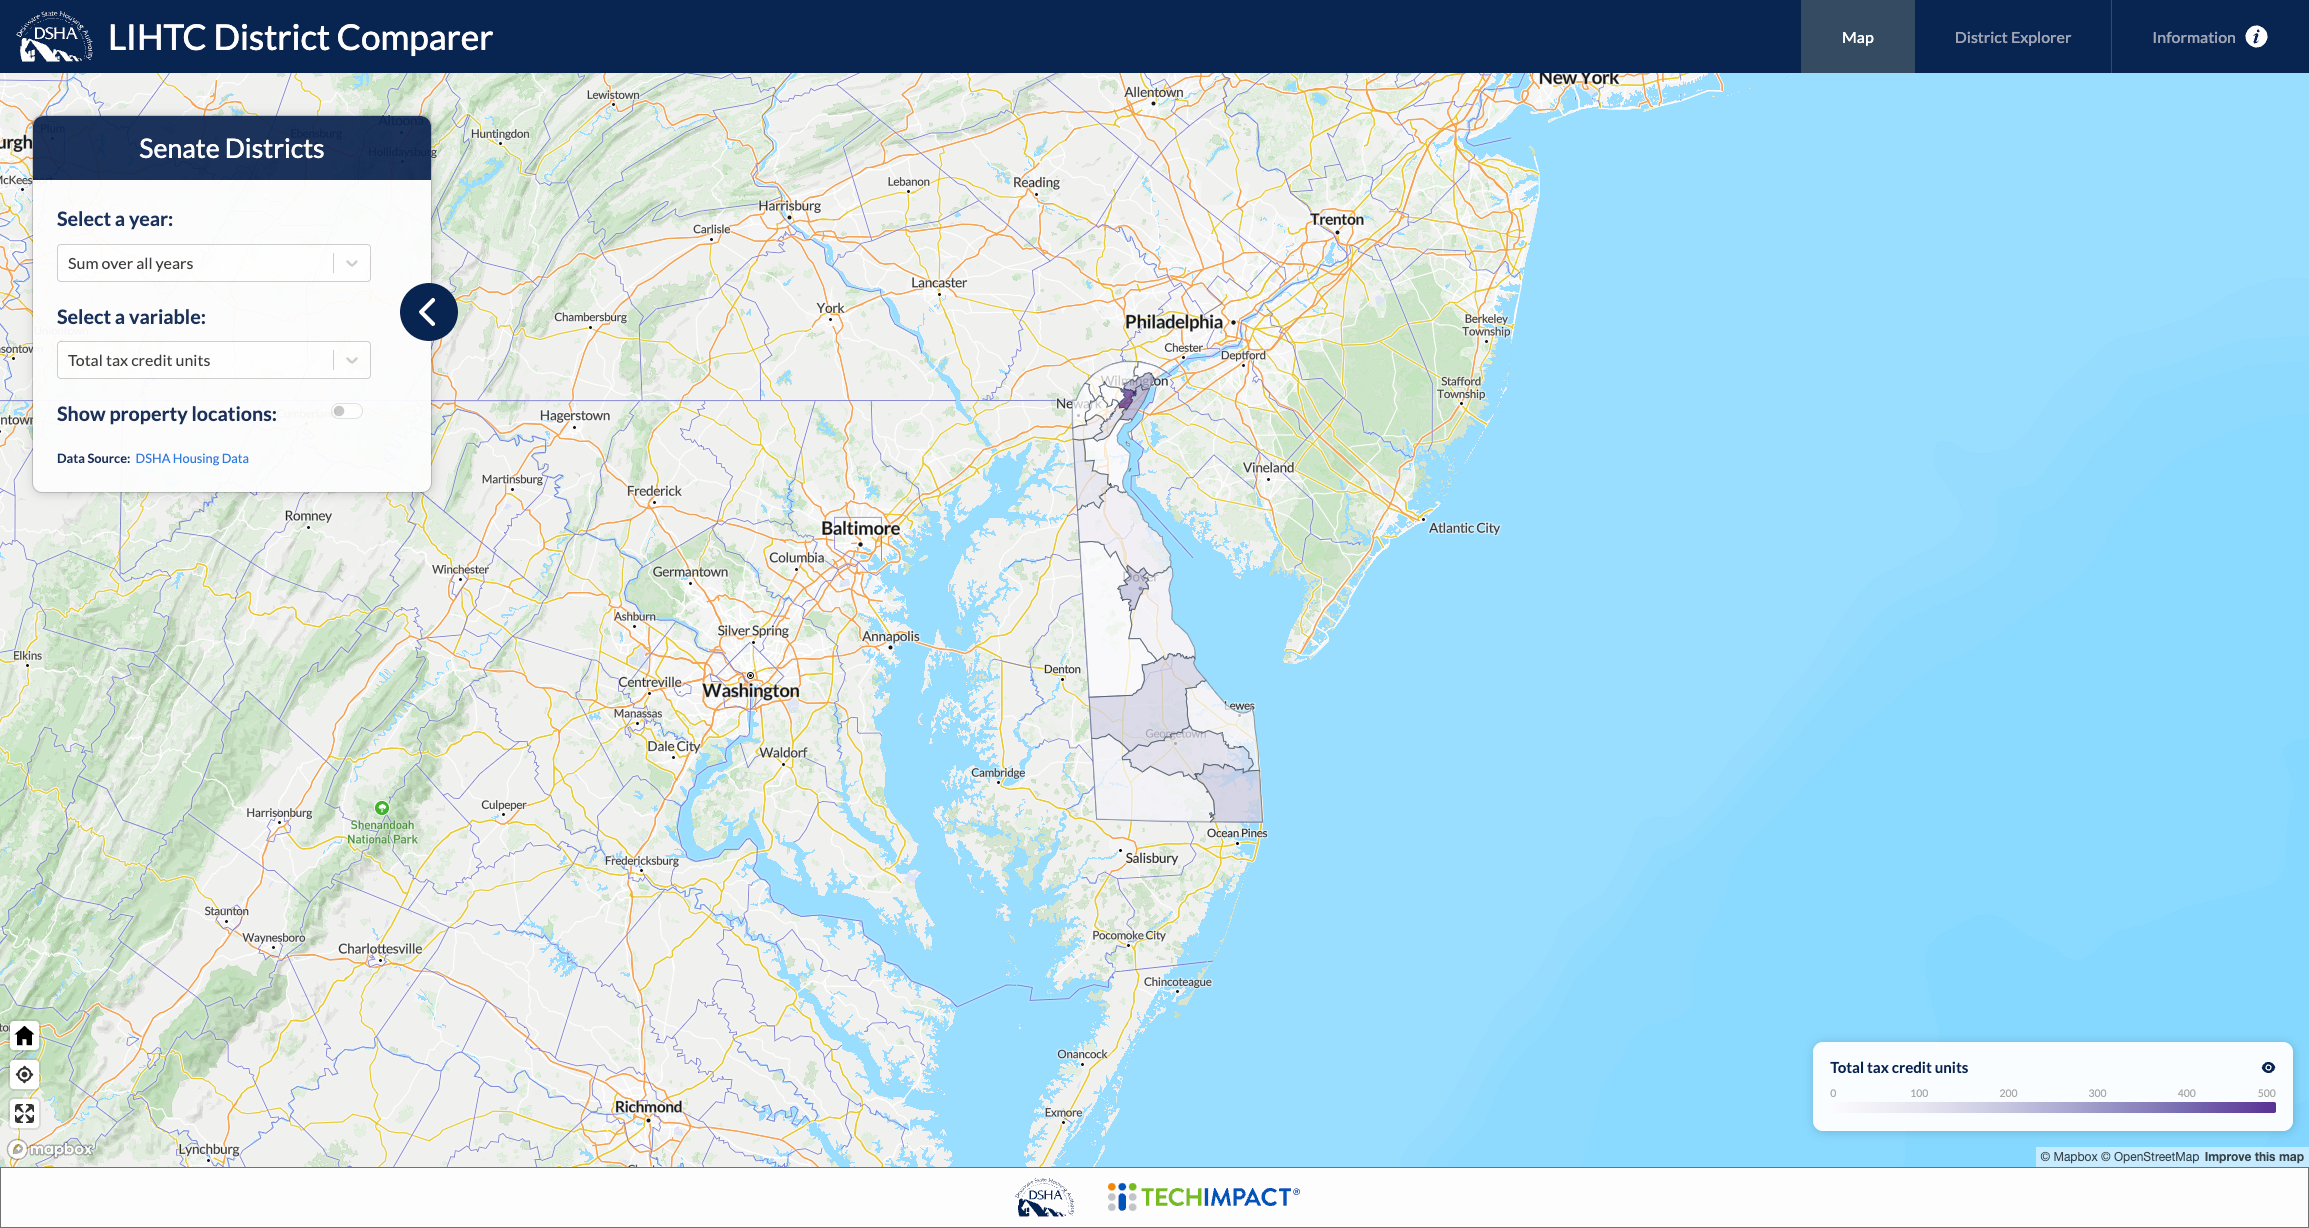
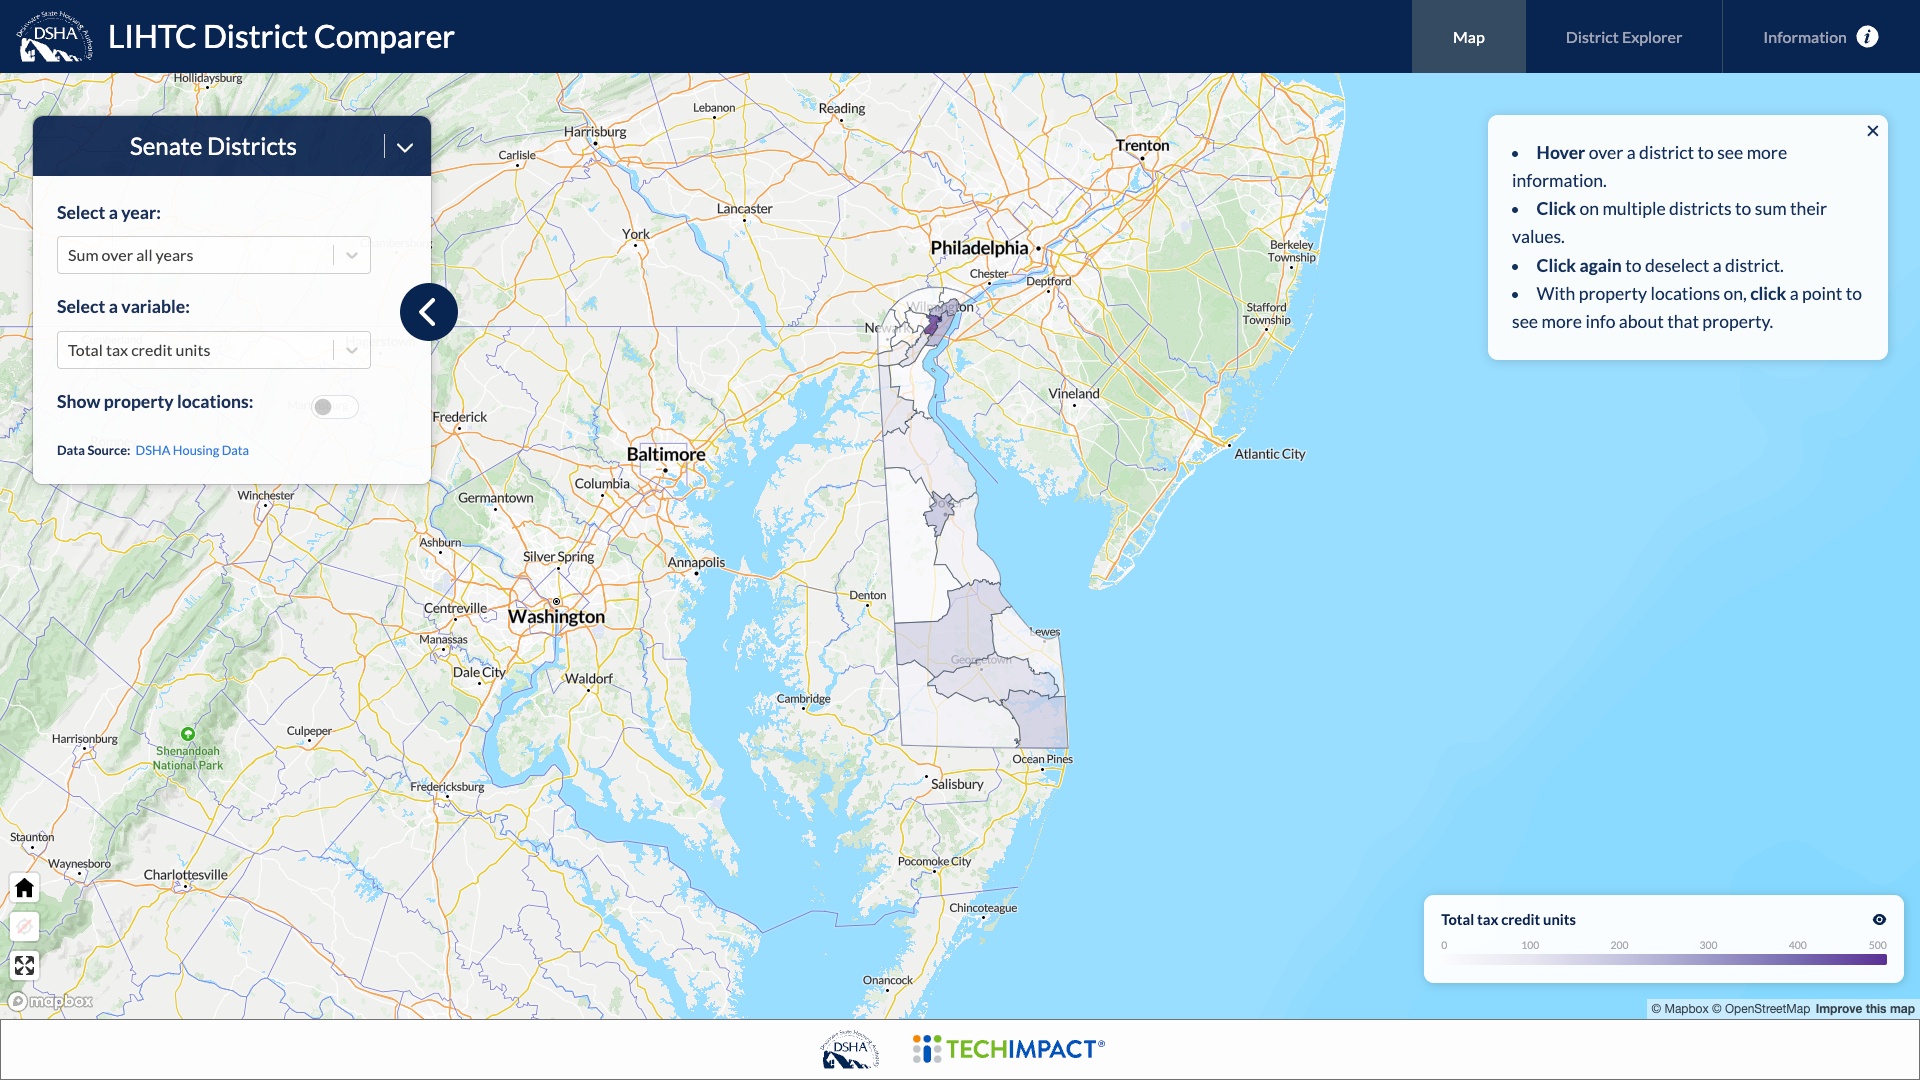
changes to README and new screenshots added

diff --git a/README.md b/README.md
@@ -2,7 +2,7 @@
 
 ## About this App
 
-This app was developed for the Delaware State Housing Authority and state of Delaware Legislators to visualize variables relating to the Low-Income Housing Tax Credits program within the state of Delaware Senate Districts. Made possible through the collaboration of Tech Impact’s Data Innovation Lab with the Delaware State Housing Authority.
+This app was developed for the Delaware State Housing Authority and state of Delaware Legislators to visualize variables relating to the Low-Income Housing Tax Credits program within the state of Delaware legislative Districts. Made possible through the collaboration of Tech Impact’s Data Innovation Lab with the Delaware State Housing Authority.
 
 ## Running App
 
@@ -12,20 +12,21 @@ This app was developed for the Delaware State Housing Authority and state of Del
 
 ## About the Data
 
-### Delaware Senate Data
-- Delaware senate district boundaries (2011 and 2022) used in this app can be found on the [U.S. Census Bureau website](https://www2.census.gov/geo/tiger/GENZ2022).
-- Delaware district populations for each year were estimated using the 5-year "period" estimates from the [American Community Survey](https://www.census.gov/data/developers/data-sets/acs-5year.html).
-- Delaware senate district data (2022 senator names) can be found on the [Delaware General Assembly website](https://legis.delaware.gov/Redistricting/2022FinalSenateDistricts).
+### Delaware Legislative Data
+- Delaware Senate district boundaries (2011 and 2022) and House of Representatives district boundaries (2010 and 2022) used in this app can be found on the <a href="https://www2.census.gov/geo/tiger/" target="_blank" rel="noopener">U.S. Census Bureau website</a>.
+- Delaware legislative district populations for each year were estimated using the 5-year "period" estimates from the <a href="https://www.census.gov/data/developers/data-sets/acs-5year.html" target="_blank" rel="noopener">American Community Survey</a>.
+- Delaware Senate and House of Representatives district data (2022 senator and representative names) can be found on the <a href="https://legis.delaware.gov/Redistricting/2022FinalSenateDistricts" target="_blank" rel="noopener">Delaware General Assembly website</a>.
 
 ### Delaware Subsidized Housing Data
-- Delaware LIHTC funding source data (2016-2022) was provided by the [Delaware State Housing Authority](http://www.destatehousing.com).
+- Delaware LIHTC funding source data (2016-2022) was provided by the <a href="http://www.destatehousing.com" target="_blank" rel="noopener">Delaware State Housing Authority</a>.
 
 ## Screenshots
 <img src="public/images/screenshot-1.png" alt="Map view" width="640" height="320">
-<img src="public/images/screenshot-2.png" alt="Map view - with hover and click" width="640" height="320">
-<img src="public/images/screenshot-3.png" alt="District explorer - compare districts" width="640" height="320">
-<img src="public/images/screenshot-4.png" alt="District explorer - explore your district" width="640" height="320">
-<img src="public/images/screenshot-5.png" alt="Info Page" width="640" height="320">
+<img src="public/images/screenshot-2.png" alt="Map view - boundaries with hover and click" width="640" height="320">
+<img src="public/images/screenshot-3.png" alt="Map view - points with hover and click" width="640" height="320">
+<img src="public/images/screenshot-4.png" alt="District explorer - compare districts" width="640" height="320">
+<img src="public/images/screenshot-5.png" alt="District explorer - explore your district" width="640" height="320">
+<img src="public/images/screenshot-6.png" alt="Info Page" width="640" height="320">
 <!-- ![Map view](public/images/screenshot-1.png)
 ![Map view - with hover and click](public/images/screenshot-2.png)
 ![District explorer - compare districts](public/images/screenshot-3.png)
